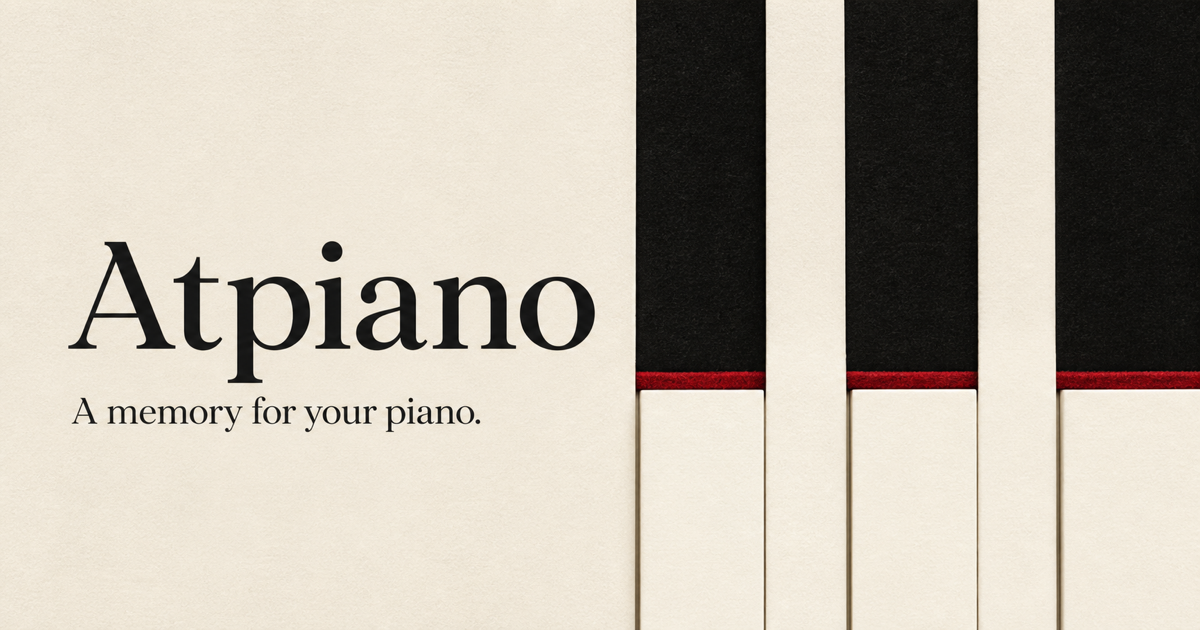
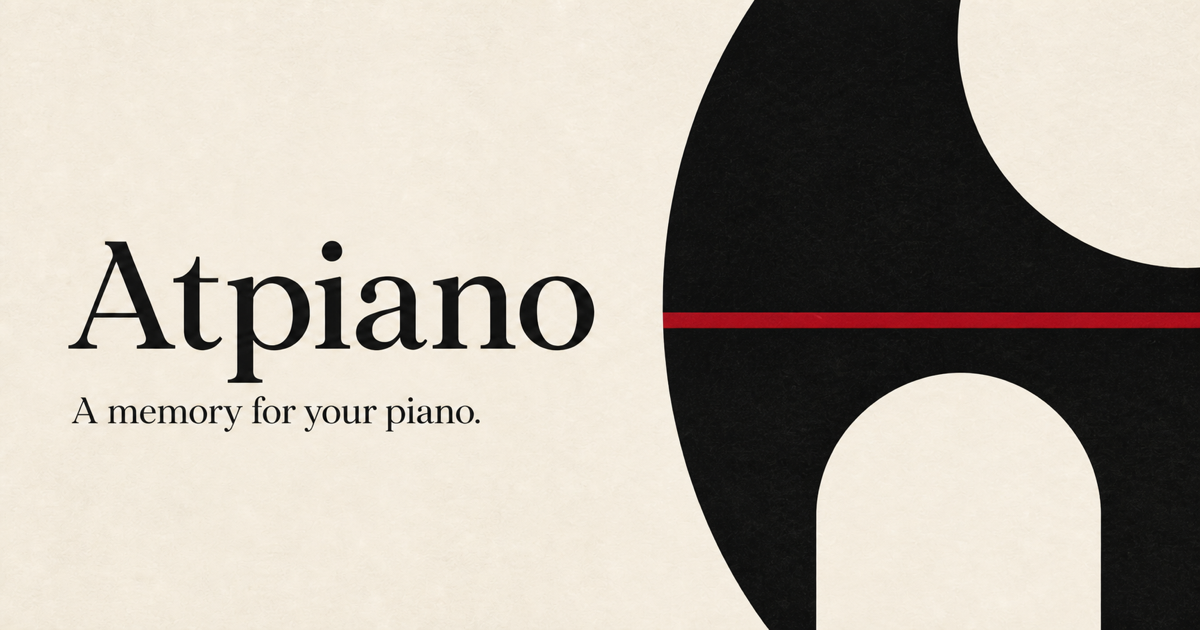
Clarify Atpiano social artwork
Replace the near-literal keyboard rendering with intentionally
nonrepresentational black and ivory geometry crossed by a continuous
red line. Preserve the existing brand copy and social-card dimensions
while avoiding physically incorrect key anatomy.

Document the abstract-art direction as part of the public marketing
site's continuing visual contract.

Topic: public-marketing-site

diff --git a/docs/topics/public-marketing-site.md b/docs/topics/public-marketing-site.md
@@ -16,6 +16,12 @@ site uses the intended piano-derived red, ivory, white, and black visual
 language; it is the reference direction for a later application-theme update,
 but does not change the desktop application yet.
 
+The social and Graehl Arts feature artwork uses intentionally
+nonrepresentational geometry rather than a stylized keyboard: a cropped
+asymmetric black form, ivory negative space, and one continuous red line. This
+keeps the piano-derived palette and rhythm without presenting physically
+incorrect key anatomy.
+
 The current public surface includes:
 
 - a product homepage with a real application screenshot and an honest
